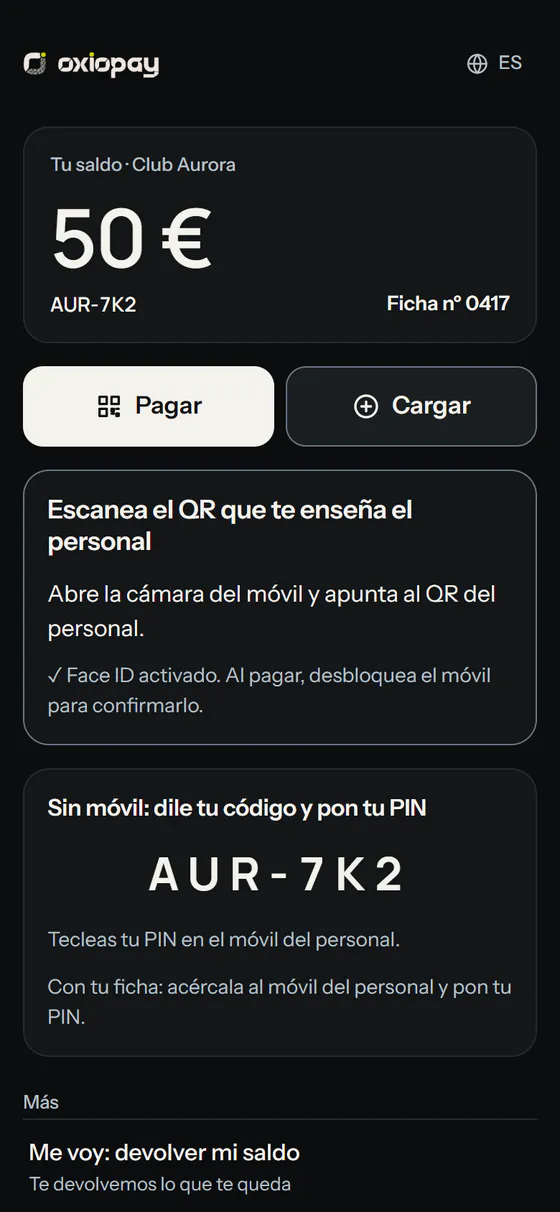
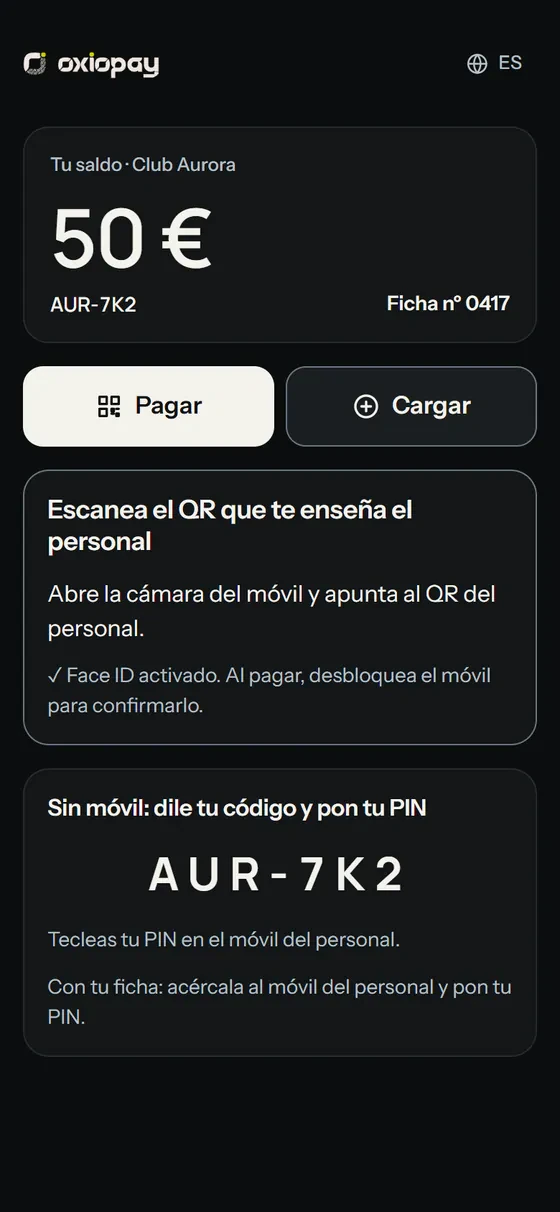
fix(web-client): la portada: el saldo que sobra se guarda y bitcoin también para el reservado
- Saldo (decisión del 17-nov): «Lo que te sobra» y la pregunta del saldo dicen que se queda para la próxima visita y no se devuelve en dinero (un cobro con error, sí). La captura del saldo ya no enseña «Me voy: devolver mi saldo» (tapado con el fondo de la página, mismo tamaño).
- Bitcoin (#47): sin «Próximamente» para los reservados (el recuadro, su texto alternativo y la pregunta); solo para cargar saldo y pagar el reservado, nunca en la barra. El recuadro de los reservados pasa a línea fina, sin la etiqueta lima.
- La nota de content.ts, al día con lo comprobado en main («Avisarme de cada cobro» no se anuncia: faltan las claves VAPID en producción).

Changed region(s): [[0.0304, 0.9464, 0.5464, 1.0], [0.0304, 0.8853, 0.1214, 0.9158]]

diff --git a/nightpay/apps/web-client/src/app/_portada/content.ts b/nightpay/apps/web-client/src/app/_portada/content.ts
@@ -2,16 +2,21 @@ import type { StaffApp } from '@/lib/customer-pages';
 
 /**
  * Textos de la portada. Regla: solo lo que OxioPay hace hoy (comprobado en el
- * código de main o ya publicado en la portada anterior). Sin cifras, reseñas
- * ni promesas. Una palabra por cosa: ficha, saldo, cargar, cobro, Pagado,
- * personal.
+ * código de main). Sin cifras, reseñas ni promesas. Una palabra por cosa:
+ * ficha, saldo, cargar, cobro, Pagado, personal.
  *
- * Bitcoin (decisión del 16-nov): solo para cargar saldo y, cuando salgan, para
- * pagar reservados (señal y resto). Cada local elige si lo acepta. Hasta que se
- * publique la rama que lo limita (feat/btc-recarga-reservas) y haya forma de
- * devolver en euros ese saldo, aquí no se dice «nunca en la barra» ni «se
- * devuelve en euros»: solo lo que ya es cierto (comprobación del 16-nov,
- * scratchpad/landing-oxiocard/COMPROBACION-TEXTOS.md).
+ * Comprobado el 17-nov con main:
+ *  - El saldo (decisión del dueño del 17-nov): lo que sobra se queda en el
+ *    saldo para la próxima visita y no se devuelve en dinero (ni en efectivo
+ *    ni a la tarjeta). Lo que sí se devuelve es un cobro con error. La captura
+ *    del saldo (saldo.webp) va sin la fila «Me voy: devolver mi saldo».
+ *  - Bitcoin (en marcha desde #47): solo para cargar saldo y para pagar un
+ *    reservado (la señal y el resto), nunca en la barra. Cada local elige si
+ *    lo acepta. Con Lightning llega al momento; en la red, con 1 confirmación.
+ *  - Ya funcionan los reservados con señal, el enlace de cada RRPP con su
+ *    comisión y la pantalla del cliente.
+ *  - «Avisarme de cada cobro» no sale aquí: necesita las claves VAPID del
+ *    servidor y producción aún no las tiene.
  */
 
 /** [texto en negrita, resto de la frase]. */
@@ -28,7 +33,7 @@ export const SHOTS = {
   saldo: { src: '/portada/saldo.webp', width: 560, height: 1212, alt: 'Tu saldo: 50 €, con el número de ficha y los botones Pagar y Cargar' },
   cargarBitcoin: { src: '/portada/cargar-bitcoin.webp', width: 560, height: 1212, alt: 'Carga de saldo de 50 €: con tarjeta o con bitcoin' },
   bitcoinQr: { src: '/portada/bitcoin-qr.webp', width: 560, height: 1212, alt: 'Código QR para pagar la carga con bitcoin' },
-  reservado: { src: '/portada/reservado.webp', width: 440, height: 952, alt: 'Reserva de un reservado con señal (próximamente)' },
+  reservado: { src: '/portada/reservado.webp', width: 440, height: 952, alt: 'Reserva de un reservado con señal' },
 } as const;
 
 export type Shot = (typeof SHOTS)[keyof typeof SHOTS];
@@ -62,14 +67,14 @@ export const FOR_CLIENTS: readonly Point[] = [
   ['Sin app ni registro:', 'solo tu móvil.'],
   ['Pago seguro:', 'la tarjeta la escribes en la página segura del banco, no en OxioPay.'],
   ['Tu saldo:', 'prepago. Pagas con tu PIN o con Face ID o huella; con la ficha, los importes pequeños pueden ir sin PIN si el local lo permite.'],
-  ['Lo que te sobra:', 'te lo devolvemos cuando lo pidas: lo cargado en efectivo, en efectivo; lo cargado con tarjeta, a tu tarjeta.'],
+  ['Lo que te sobra:', 'se queda en tu saldo para tu próxima visita. No se devuelve en dinero.'],
 ];
 
 export type VenueIcon = 'qr' | 'bitcoin' | 'heart' | 'chart' | 'percent' | 'bell';
 
 export const FOR_VENUES: readonly (readonly [VenueIcon, string, string])[] = [
   ['qr', 'Cobra como quieras', 'Con QR, con datáfono o con el saldo del cliente.'],
-  ['bitcoin', 'Bitcoin, si quieres', 'Tus clientes cargan su saldo con bitcoin y tú lo recibes en tu propio BTCPay.'],
+  ['bitcoin', 'Bitcoin, si quieres', 'Tus clientes cargan su saldo y pagan su reservado con bitcoin, y tú lo recibes en tu propio BTCPay.'],
   ['heart', 'Fideliza', 'El saldo de tus clientes les espera para la próxima visita y puede valer en todos tus locales.'],
   ['chart', 'Lo cobrado, cada noche', 'Un panel con lo cobrado cada noche.'],
   ['percent', 'Comisiones del personal', 'Se calculan solas.'],
@@ -78,6 +83,7 @@ export const FOR_VENUES: readonly (readonly [VenueIcon, string, string])[] = [
 
 export const BITCOIN_POINTS: readonly Point[] = [
   ['Para cargar saldo:', 'cargas tu saldo con bitcoin y después pagas con él.'],
+  ['En la barra, no:', 'allí pagas con el saldo que cargaste.'],
   ['El local decide:', 'cada local elige si acepta bitcoin.'],
   ['Lightning o en la red:', 'con Lightning, si el local lo tiene, llega al momento; en la red, con 1 confirmación.'],
 ];

diff --git a/nightpay/apps/web-client/src/app/_portada/sections.tsx b/nightpay/apps/web-client/src/app/_portada/sections.tsx
@@ -163,7 +163,7 @@ export function Venues() {
   );
 }
 
-/** Bitcoin: para cargar saldo (y, cuando salgan, reservados). Ver la nota de content.ts. */
+/** Bitcoin: para cargar saldo y para pagar el reservado, nunca en la barra. Ver la nota de content.ts. */
 export function Bitcoin() {
   return (
     <section id="bitcoin" className={cx(c.section, c.btc)} aria-labelledby="btc-title">
@@ -177,14 +177,13 @@ export function Bitcoin() {
             En los locales que lo aceptan. Después pagas con tu saldo, como siempre.
           </p>
           <Points items={BITCOIN_POINTS} />
-          <div className={c.soon}>
-            <div className={c.soonCrop}>
-              <Phone shot={SHOTS.reservado} className={c.soonPhone} />
+          <div className={c.rsv}>
+            <div className={c.rsvCrop}>
+              <Phone shot={SHOTS.reservado} className={c.rsvPhone} />
             </div>
             <div>
-              <p className={c.soonTag}>Próximamente</p>
-              <h3 className={c.soonTitle}>Reservados</h3>
-              <p className={c.soonText}>Paga tu reservado con bitcoin: la señal y el resto.</p>
+              <h3 className={c.rsvTitle}>Reservados</h3>
+              <p className={c.rsvText}>Paga tu reservado con bitcoin: la señal y el resto.</p>
             </div>
           </div>
         </div>

diff --git a/nightpay/apps/web-client/src/app/_portada/sections.module.css b/nightpay/apps/web-client/src/app/_portada/sections.module.css
@@ -325,43 +325,30 @@
   margin-left: calc(var(--pw) * -0.26);
 }
 
-.soon {
+/* Los reservados también se pagan con bitcoin: la página de reservar, en pequeño. */
+.rsv {
   display: grid;
   grid-template-columns: auto 1fr;
   align-items: center;
   gap: 20px;
   padding: 18px 22px;
-  border: 1px dashed rgb(198 231 108 / 0.45);
+  border: 1px solid var(--c-line);
   border-radius: var(--r-2);
   background: var(--c-dark-3);
 }
 
-.soonCrop {
+.rsvCrop {
   height: 150px;
   overflow: hidden;
   -webkit-mask-image: linear-gradient(180deg, #000 62%, transparent);
   mask-image: linear-gradient(180deg, #000 62%, transparent);
 }
 
-.soonPhone {
+.rsvPhone {
   --pw: 104px;
 }
 
-.soonTag {
-  display: inline-block;
-  margin: 0 0 6px;
-  padding: 2px 12px;
-  border-radius: var(--r-pill);
-  background: var(--c-lime);
-  color: var(--c-ink);
-  font-size: 12px;
-  font-weight: 700;
-  line-height: 1.6;
-  letter-spacing: 1.5px;
-  text-transform: uppercase;
-}
-
-.soonTitle {
+.rsvTitle {
   margin: 0;
   color: #fff;
   font-size: 19px;
@@ -369,7 +356,7 @@
   line-height: 1.6;
 }
 
-.soonText {
+.rsvText {
   margin: 0;
 }
 

diff --git a/nightpay/apps/web-client/src/app/_portada/closing.tsx b/nightpay/apps/web-client/src/app/_portada/closing.tsx
@@ -89,11 +89,11 @@ const FAQ: readonly { q: string; a: ReactNode }[] = [
   },
   {
     q: '¿Puedo pagar con bitcoin?',
-    a: 'En los locales que lo aceptan, puedes cargar tu saldo con bitcoin y después pagar con ese saldo. Próximamente también podrás pagar tu reservado con bitcoin: la señal y el resto.',
+    a: 'En los locales que lo aceptan, sí: para cargar tu saldo y para pagar tu reservado (la señal y el resto). En la barra no se paga con bitcoin: pagas con el saldo que cargaste.',
   },
   {
     q: '¿Qué pasa con el saldo que me sobra?',
-    a: 'Te lo devolvemos cuando lo pidas: lo cargado en efectivo, en efectivo en recepción; lo cargado con tarjeta, a tu tarjeta.',
+    a: 'Se queda en tu saldo para tu próxima visita. No se devuelve en dinero, ni en efectivo ni a la tarjeta. Si un cobro tiene un error, ese cobro sí se devuelve.',
   },
   {
     q: '¿En qué idiomas está la página de pago?',
